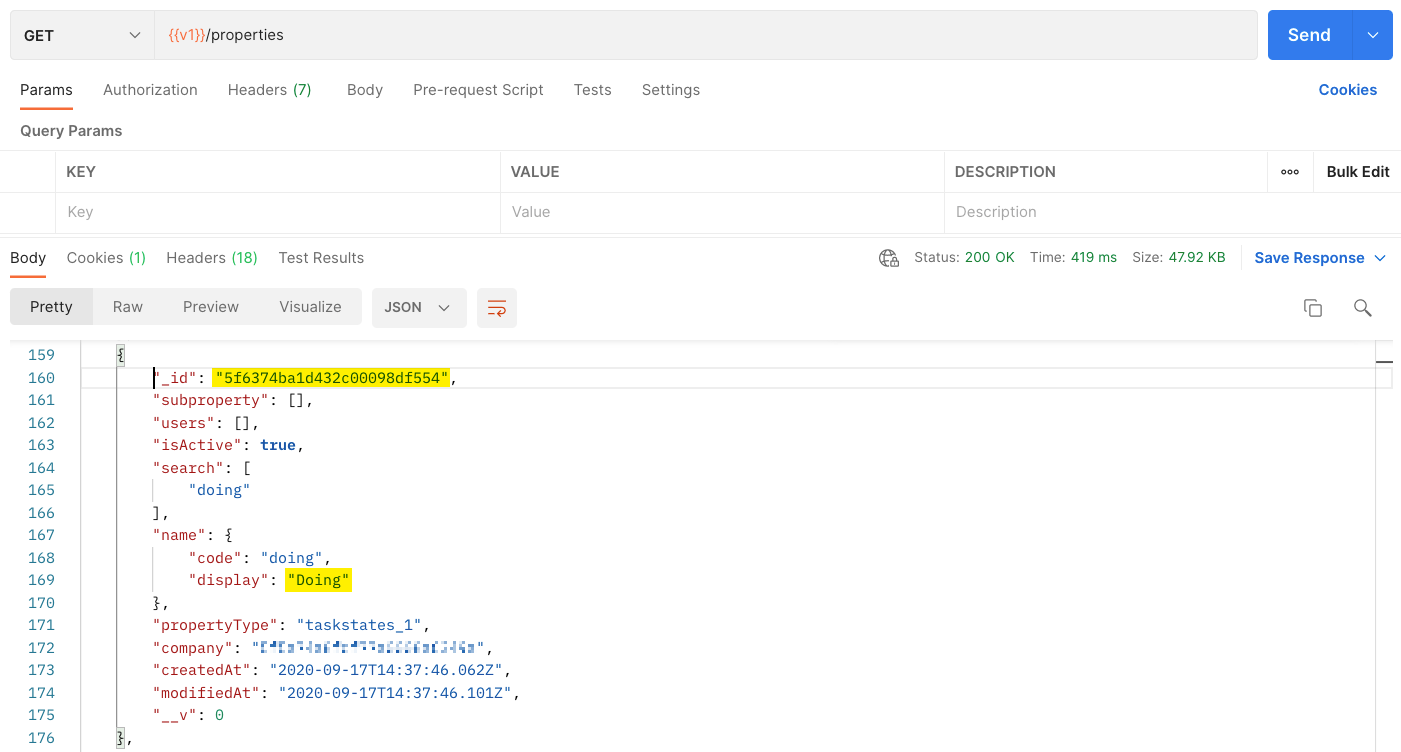
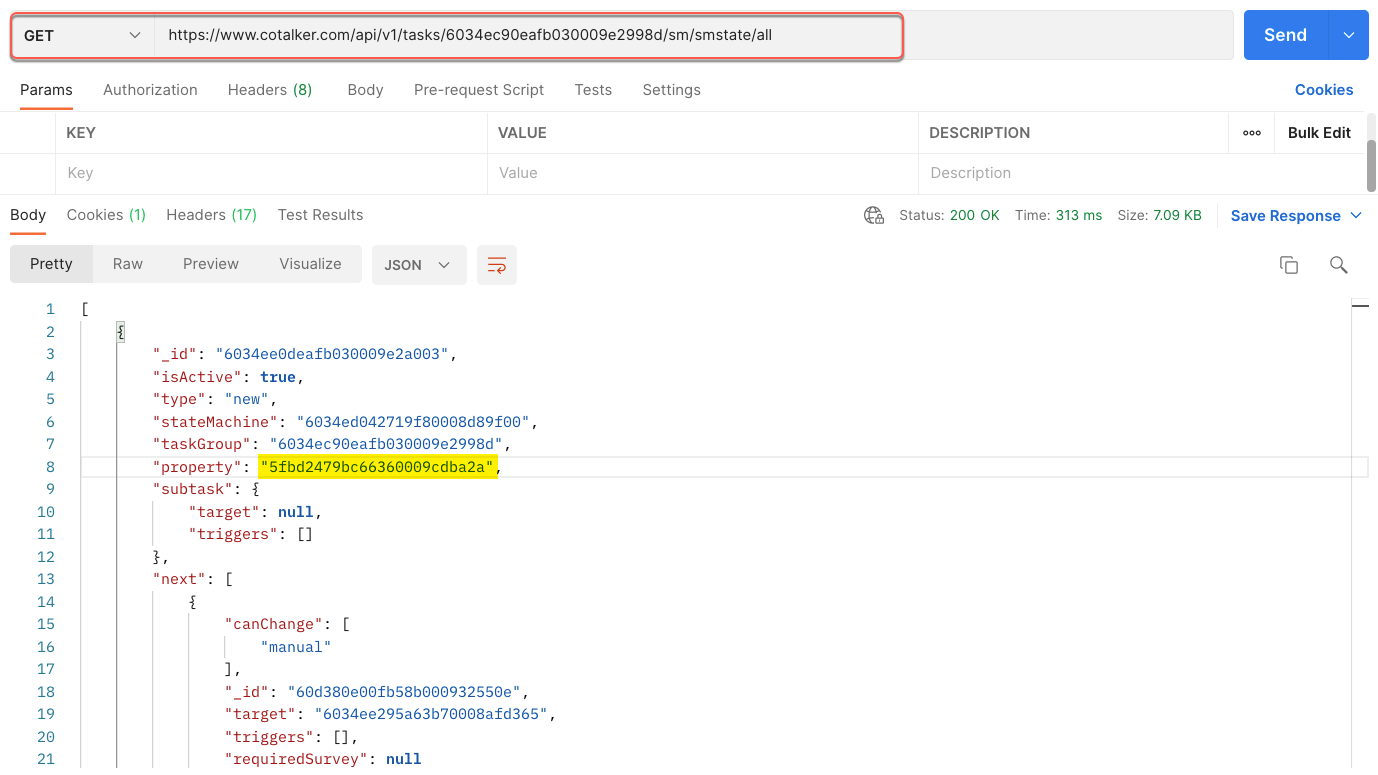
Task Permission fix

diff --git a/docs/documentation/admin/tips/find_property_objectID.md b/docs/documentation/admin/tips/find_property_objectID.md
@@ -6,7 +6,7 @@ import Highlight from '@theme/Highlight';
 
 Here are some ways you can find a workflow state's ObjectID.
 
-First, we must remember that a [_workflow state_](/docs/documentation/client/basic_concepts#state) is an [_element_](/docs/documentation/client/basic_concepts#elements) within a [_collection_](/docs/documentation/client/basic_concepts#collection). In the backend, _Elements_ are also known as _properties_, and _collections_ as _property types_.
+First, we must remember that a [_workflow state_](/docs/documentation/client/basic_concepts#state) is an [_element_](/docs/documentation/client/basic_concepts#elements) within a [_collection_](/docs/documentation/client/basic_concepts#collection). In the backend, _Elements_ are also known as _properties_, and _collections_ as _property types_. An _element's_ data model is called [COTProperty](/docs/documentation/models/databases/model_properties), therefore its identification code is referred to as ObjectId<COTProperty\>.
 
 Second, to find out which states are available in a workflow, go to the corresponding [Create/Edit Workflow Settings Panel](/docs/documentation/admin/workflows/settings_panels/workflow_create_edit#states). Scroll down the settings panel to find the list of available states. The _State list_ field indicates the _collection_ the _states_ belong to.
 
@@ -32,9 +32,11 @@ Once you have the state names, you can search for their objectId in some of the 
 <div className="text-center"><em>In the area within the dotted-line box you can find a list of the available states.</em></div>
 <br/>
 
-- Use [GET /properties API request](/docs/documentation/api/databases/properties) to get [COTProperty](/docs/documentation/models/databases/model_properties): 
+- Use an [API request](/docs/documentation/api/tasks/statemachines) to get all the task states:  
+<span className="badge badge--success">GET</span> /tasks/&#123;groupid&#125;/sm/smstate/all
+
 <img alt="api" className="img_sizing item shadow--tl" src={useBaseUrl('img/find_state_properties_04.png')} />
-<div className="text-center"><em>Search throuth the API response to find the state's ObjectId.</em></div>
+<div className="text-center"><em>Find the property field to get each state's ObjectId&#60;COTProperty&#62;.</em></div>
 <br/>
 
 - Search through an [SQL database](/docs/documentation/sql_bi/overview):
